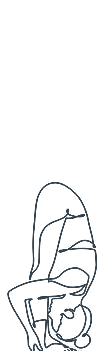
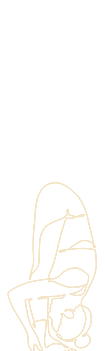
Switch to warm orange theme (orange bg, white/beige text) linked to salon LP palette

diff --git a/index.html b/index.html
@@ -19,17 +19,17 @@
    ============================================================ */
 
 :root{
-  --gray:      #e6f2fb;   /* 淡い水色（メイン背景） */
-  --gray-alt:  #f3f9fd;   /* さらに明るい水色（交互セクション） */
-  --gray-dark: #2b3742;   /* 濃紺スレート（フッター・帯のオーバーレイ用） */
-  --panel:     rgba(45,55,66,.045);
-  --panel-2:   rgba(45,55,66,.07);
-  --line:      rgba(45,55,66,.18);
-  --line-soft: rgba(45,55,66,.10);
-  --ink:       #33424d;   /* 濃いスレートの文字色 */
-  --ink-mute:  rgba(51,66,77,.72);
-  --ink-dim:   rgba(51,66,77,.48);
-  --accent:    #3f9a46;   /* フィットネスらしい生命力のグリーン */
+  --gray:      #cc7a3d;   /* オレンジ（メイン背景。美容室LPのアクセント色） */
+  --gray-alt:  #c37138;   /* 少し深いオレンジ（交互セクション） */
+  --gray-dark: #5c3417;   /* 深いバーントブラウン（フッター・帯のオーバーレイ用） */
+  --panel:     rgba(255,255,255,.09);
+  --panel-2:   rgba(255,255,255,.15);
+  --line:      rgba(255,255,255,.30);
+  --line-soft: rgba(255,255,255,.16);
+  --ink:       #ffffff;   /* 白（主要テキスト） */
+  --ink-mute:  rgba(250,240,227,.84);  /* ベージュ（本文・副次テキスト） */
+  --ink-dim:   rgba(250,240,227,.56);
+  --accent:    #f4e4c6;   /* ベージュ／クリームのアクセント（美容室LPの背景色） */
   --maxw:      1180px;
   --serif:     "Cormorant Garamond", serif;      /* 英字ディスプレイ */
   --mincho:    "Shippori Mincho", serif;          /* 和文見出し */
@@ -87,7 +87,7 @@ ul{list-style:none}
    HEADER
    ============================================================ */
 .site-header{position:fixed;top:0;left:0;right:0;z-index:100;padding:26px 0;transition:.4s}
-.site-header.scrolled{padding:15px 0;background:rgba(230,242,251,.88);backdrop-filter:blur(12px);box-shadow:0 1px 0 var(--line-soft)}
+.site-header.scrolled{padding:15px 0;background:rgba(204,122,61,.92);backdrop-filter:blur(12px);box-shadow:0 1px 0 var(--line-soft)}
 .header-inner{display:flex;align-items:center;justify-content:space-between}
 .brand{display:flex;flex-direction:column;line-height:1.3}
 .brand .en{font-family:var(--logo);font-weight:600;font-size:24px;letter-spacing:.1em;color:var(--ink)}
@@ -113,7 +113,7 @@ ul{list-style:none}
 .hero-copy .who .t b{display:block;font-weight:500;font-size:14.5px;color:var(--ink);letter-spacing:.12em}
 .hero-copy h1{font-family:var(--mincho);font-weight:500;font-size:clamp(46px,7.9vw,89px);line-height:1.5;letter-spacing:.04em;margin-bottom:30px;text-align:right}
 .hero-copy h1 span:nth-child(2),.hero-copy h1 span:nth-child(3){padding-right:12%}
-.hero-copy h1 .g-img{display:inline-block;height:1.55em;width:auto;vertical-align:-.5em;margin:0 .04em;filter:brightness(0);opacity:.82}
+.hero-copy h1 .g-img{display:inline-block;height:1.55em;width:auto;vertical-align:-.5em;margin:0 .04em}
 .hero-copy h1 span{display:block;opacity:0;transform:translateY(26px)}
 .hero-copy h1 .pre{font-size:.42em;letter-spacing:.14em;margin-bottom:.15em;color:var(--ink-mute);text-align:center}
 .hero-copy h1 span:nth-child(1){animation:rise .9s .2s forwards}
@@ -136,7 +136,7 @@ ul{list-style:none}
 .hero-visual .frame{position:relative;overflow:hidden}
 .hero-visual .frame img{width:100%;aspect-ratio:4/5;object-fit:cover;object-position:50% 42%;transition:2s}
 .hero-visual::before{content:"";position:absolute;top:-14px;left:-14px;right:26px;bottom:26px;border:1px solid var(--line);z-index:-1}
-.hero-visual .cap{position:absolute;bottom:20px;left:20px;font-family:var(--serif);font-style:italic;font-size:18px;letter-spacing:.06em;color:var(--ink);text-shadow:0 1px 8px rgba(255,255,255,.6)}
+.hero-visual .cap{position:absolute;bottom:20px;left:20px;font-family:var(--serif);font-style:italic;font-size:18px;letter-spacing:.06em;color:#fff;text-shadow:0 2px 10px rgba(0,0,0,.45)}
 
 @keyframes rise{to{opacity:1;transform:none}}
 .scroll-cue{position:absolute;bottom:30px;left:50%;transform:translateX(-50%);z-index:2;font-family:var(--serif);font-size:12px;letter-spacing:.3em;color:var(--ink-dim);writing-mode:vertical-rl;display:flex;align-items:center;gap:14px}
@@ -210,7 +210,7 @@ ul{list-style:none}
 
 /* ---------- 帯（全面写真＋コピー） ---------- */
 .band{position:relative;padding:clamp(120px,18vw,220px) 0;text-align:center;background-position:center;background-size:cover;background-attachment:fixed}
-.band::before{content:"";position:absolute;inset:0;background:linear-gradient(rgba(43,46,49,.62),rgba(43,46,49,.62))}
+.band::before{content:"";position:absolute;inset:0;background:linear-gradient(rgba(74,42,20,.62),rgba(74,42,20,.62))}
 .band .inner{position:relative;z-index:2}
 .band .en{font-family:var(--serif);font-style:italic;font-weight:400;font-size:clamp(20px,3vw,30px);color:var(--accent);letter-spacing:.08em;margin-bottom:18px}
 .band h2{font-family:var(--mincho);font-weight:500;font-size:clamp(26px,4.6vw,46px);line-height:1.7;letter-spacing:.1em;color:#fff}
@@ -285,7 +285,7 @@ ul{list-style:none}
 
 /* ---------- CTA ---------- */
 .cta{position:relative;text-align:center;padding:clamp(110px,15vw,180px) 0;background-position:center;background-size:cover}
-.cta::before{content:"";position:absolute;inset:0;background:linear-gradient(rgba(43,46,49,.72),rgba(43,46,49,.72))}
+.cta::before{content:"";position:absolute;inset:0;background:linear-gradient(rgba(74,42,20,.72),rgba(74,42,20,.72))}
 .cta-inner{position:relative;z-index:2}
 .cta .en{font-family:var(--serif);font-style:italic;font-size:clamp(22px,3.4vw,34px);color:var(--accent);letter-spacing:.06em;margin-bottom:20px}
 .cta h2{font-family:var(--mincho);font-weight:500;font-size:clamp(26px,4.4vw,44px);line-height:1.8;margin-bottom:24px;letter-spacing:.08em;color:#fff}
@@ -309,7 +309,7 @@ ul{list-style:none}
 .footer-bottom small{font-family:var(--serif);color:#8f8a83;font-size:12px;letter-spacing:.08em}
 
 /* ---------- モバイル追従バー ---------- */
-.mobile-bar{display:none;position:fixed;bottom:0;left:0;right:0;z-index:99;background:rgba(243,249,253,.96);backdrop-filter:blur(10px);padding:12px;gap:12px;border-top:1px solid var(--line-soft)}
+.mobile-bar{display:none;position:fixed;bottom:0;left:0;right:0;z-index:99;background:rgba(92,52,23,.96);backdrop-filter:blur(10px);padding:12px;gap:12px;border-top:1px solid var(--line-soft)}
 .mobile-bar .btn{flex:1;padding:15px;font-size:13px}
 
 /* ---------- scroll reveal ---------- */
@@ -341,7 +341,7 @@ ul{list-style:none}
   .nav-toggle{display:flex}
   .mobile-bar{display:flex}
   body{padding-bottom:72px}
-  .nav.open{display:flex;position:fixed;inset:0;background:rgba(240,247,252,.98);flex-direction:column;justify-content:center;gap:34px;z-index:98}
+  .nav.open{display:flex;position:fixed;inset:0;background:rgba(204,122,61,.98);flex-direction:column;justify-content:center;gap:34px;z-index:98}
   .nav.open a{font-size:26px}
   .nav.open a .j{font-size:11px;margin-top:4px}
 }
